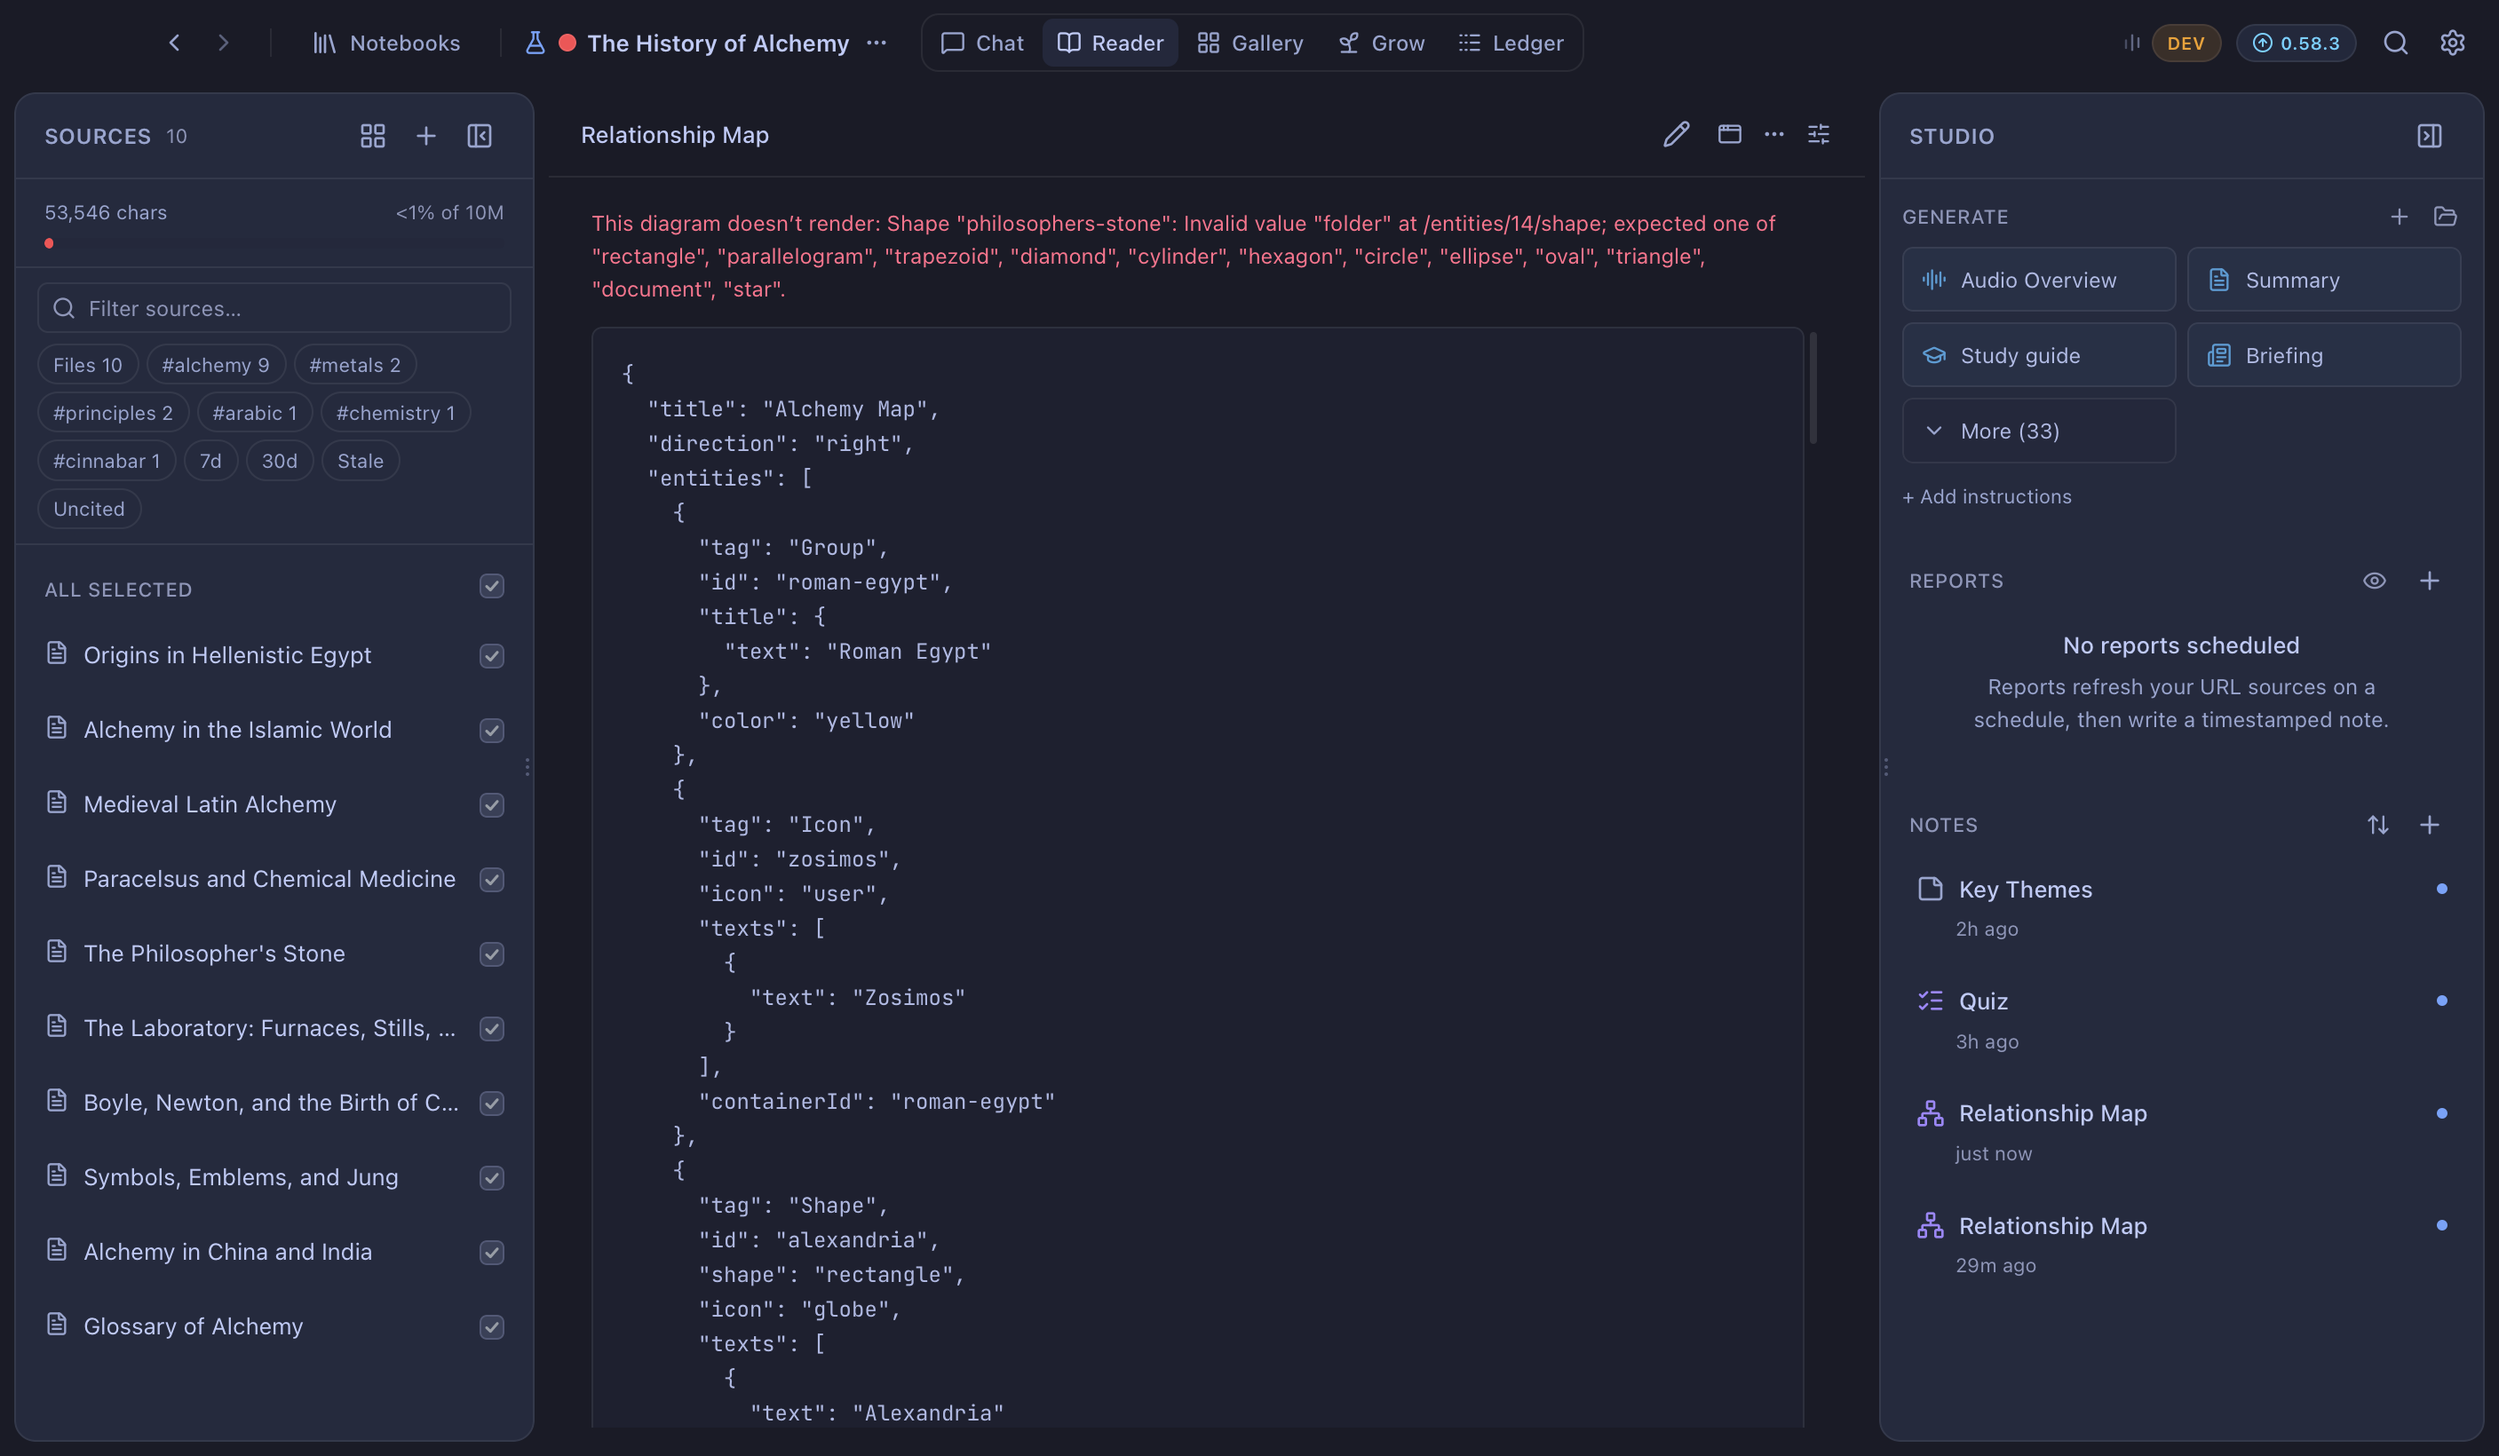
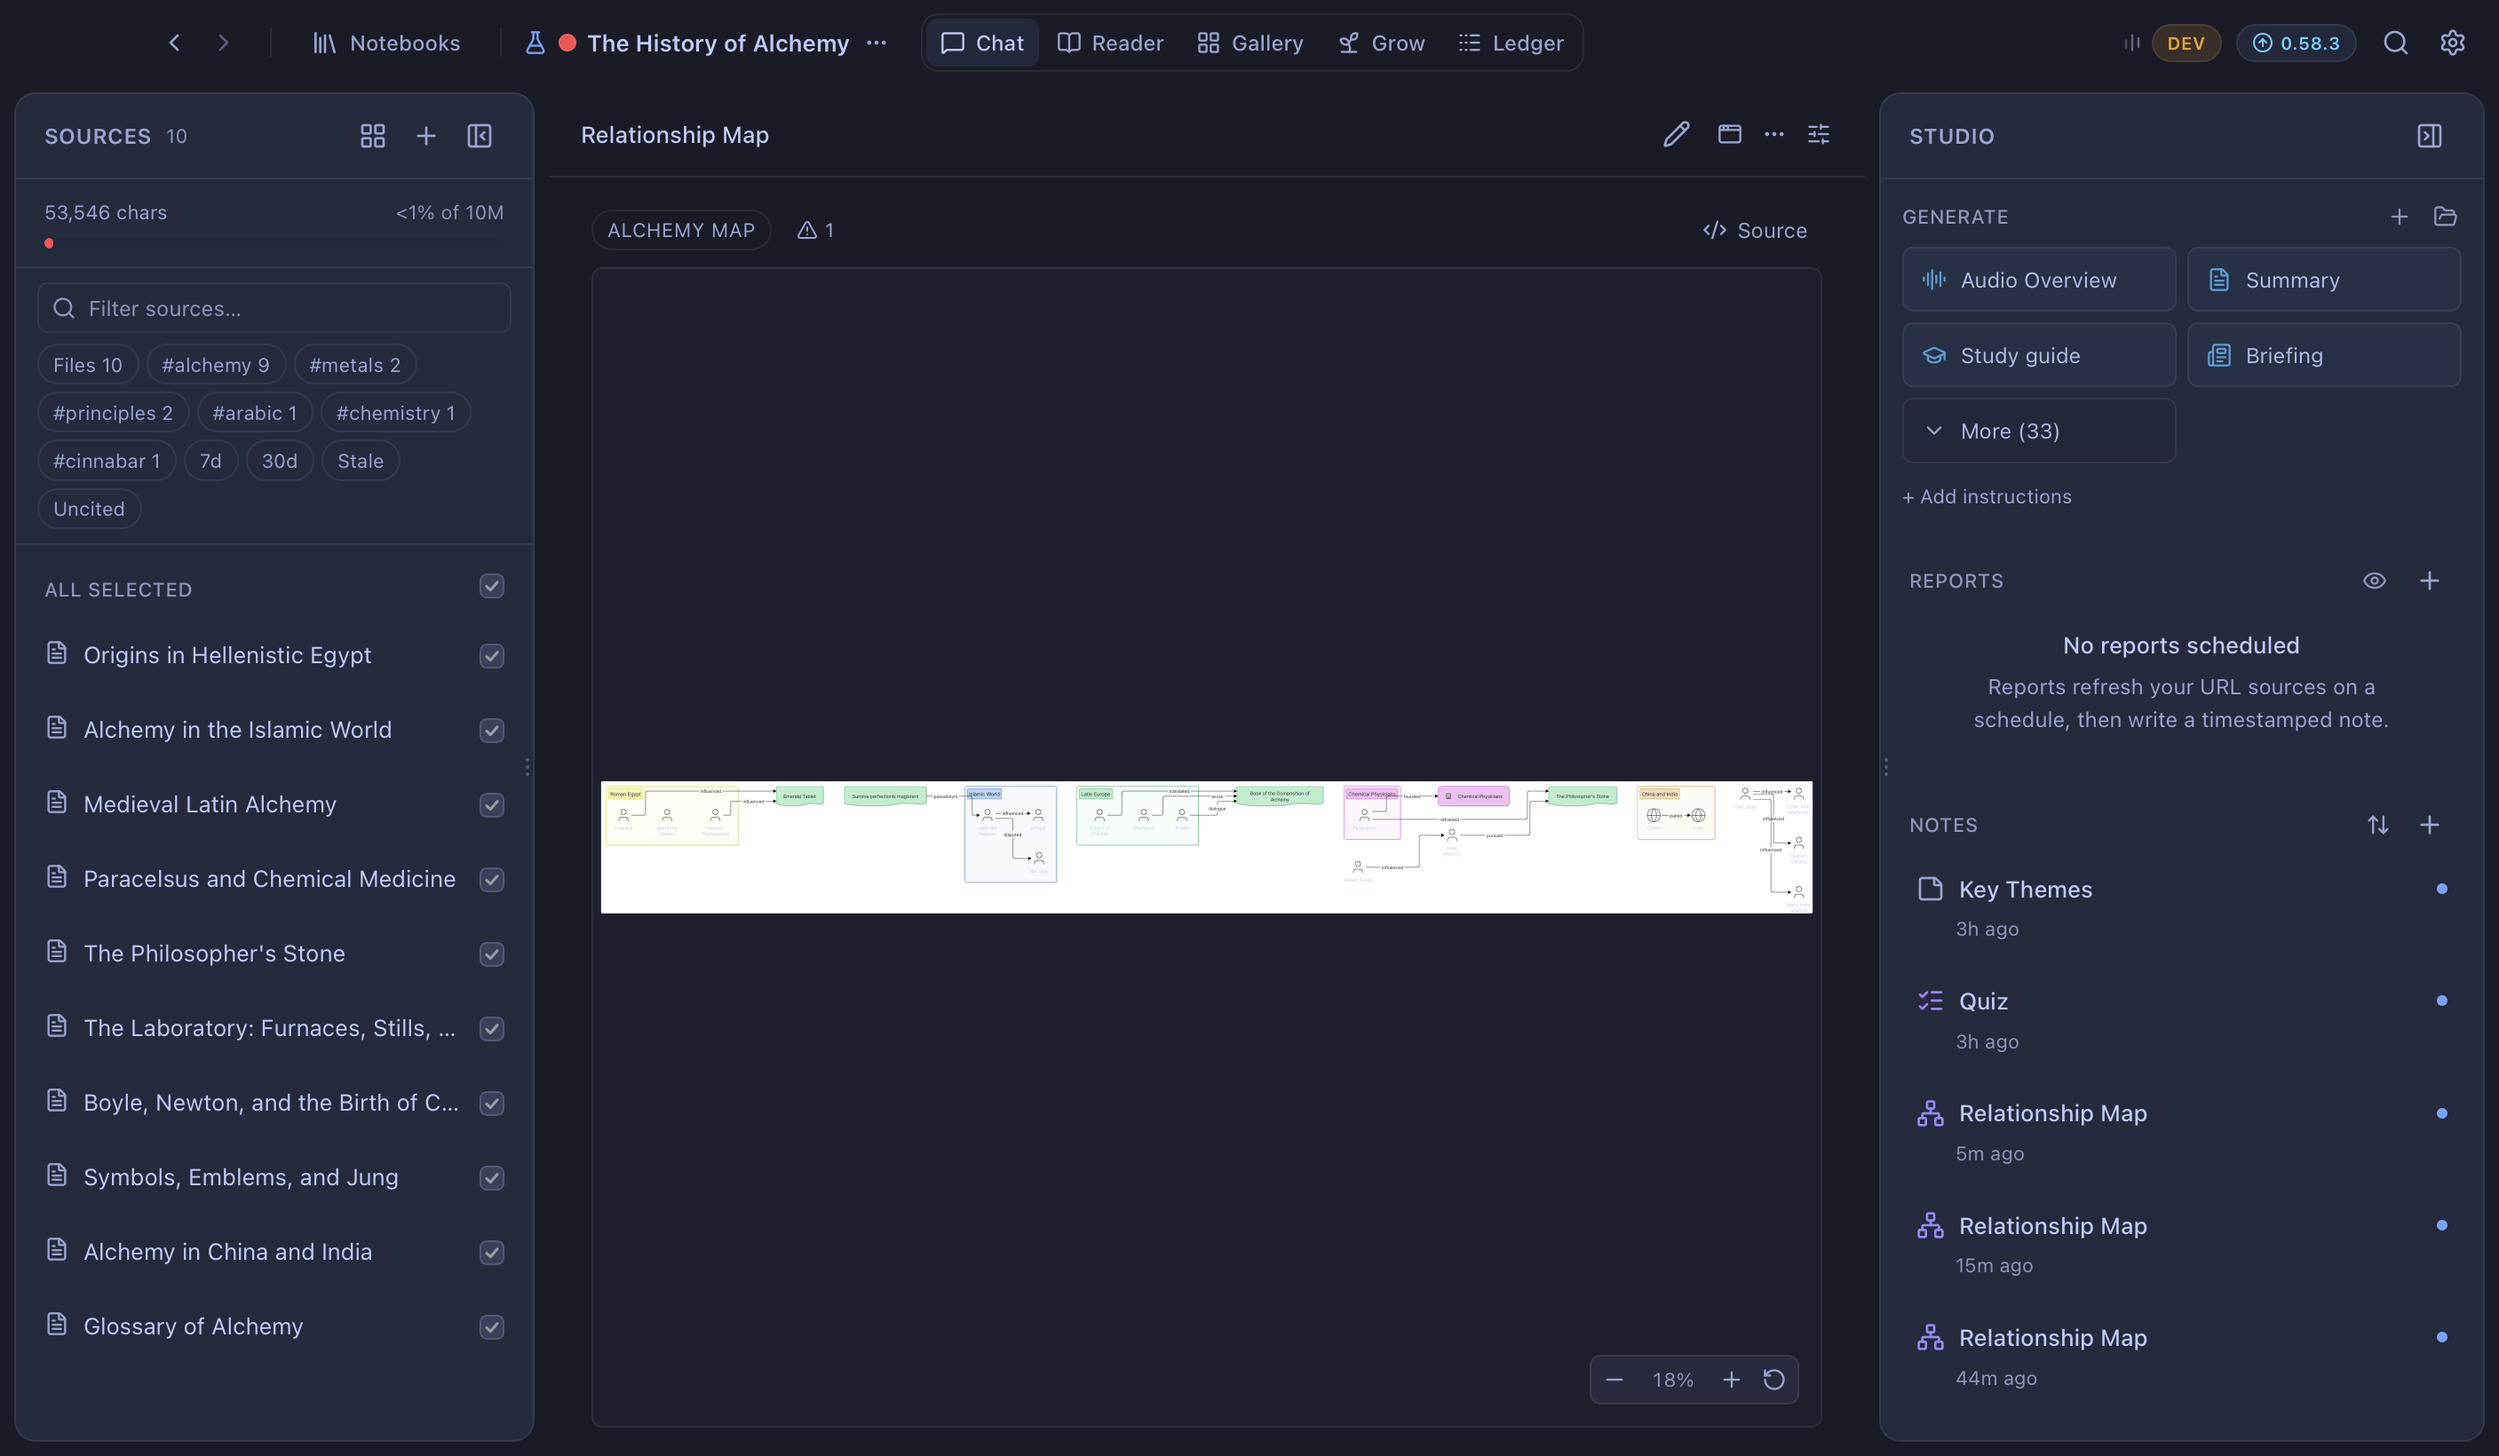
Run a relationship map's islands along the flow, and let fit zoom past a quarter
The second in-app map was six eras the sources never connect; the
layered layout started every island at rank 0, so direction right still
gave one tall first column. A relationship map now chains its islands
along the flow — each starting at the rank after the last ends — and
reads as a timeline. The canvas's zoom floor of a quarter cut that strip
off at four pane widths, so fit means fit down to a tenth.

diff --git a/src/lib/diagramLayout.ts b/src/lib/diagramLayout.ts
@@ -78,6 +78,12 @@ export interface LayoutOptions {
    *  widest rank (the default), or flush with its start — columns of a
    *  journey map share a top edge. */
   align?: "center" | "start";
+  /** Where a level's disconnected islands go: side by side across the
+   *  main axis, all starting at rank 0 (the default — unrelated tiers of
+   *  an architecture sit beside each other), or chained along it, each
+   *  island starting at the rank after the last one ends — a relationship
+   *  map's eras read left to right instead of stacking into a column. */
+  islands?: "across" | "along";
 }
 
 export interface Placement {
@@ -161,6 +167,36 @@ function rank(ids: string[], edges: Edge[]): Map<string, number> {
     }
   }
   return ranks;
+}
+
+/**
+ * Shift each connected island's ranks so the islands follow one another
+ * along the main axis, in the order their first member appears.
+ */
+function chainIslands(ids: string[], ranks: Map<string, number>, edges: Edge[]): void {
+  const parent = new Map<string, string>(ids.map((id) => [id, id]));
+  const find = (id: string): string => {
+    let root = id;
+    while (parent.get(root) !== root) root = parent.get(root) as string;
+    return root;
+  };
+  for (const [from, to] of edges) {
+    if (!parent.has(from) || !parent.has(to)) continue;
+    const a = find(from);
+    const b = find(to);
+    if (a !== b) parent.set(b, a);
+  }
+  const offset = new Map<string, number>();
+  let next = 0;
+  for (const id of ids) {
+    const root = find(id);
+    if (!offset.has(root)) {
+      offset.set(root, next);
+      const depth = Math.max(0, ...ids.filter((m) => find(m) === root).map((m) => ranks.get(m) ?? 0));
+      next += depth + 1;
+    }
+  }
+  for (const id of ids) ranks.set(id, (ranks.get(id) ?? 0) + (offset.get(find(id)) ?? 0));
 }
 
 /** Ranks → ordered layers, each sorted by the mean position of its predecessors. */
@@ -361,6 +397,7 @@ export function placeNodes(
       : sequence
         ? new Map(ids.map((id, i) => [id, i]))
         : rank(ids, lifted);
+    if (!shared && !sequence && options.islands === "along") chainIslands(ids, ranks, lifted);
     const ordered = layers(ids, ranks, lifted);
     const rel = new Map<string, Box>();
     // Along the main axis each rank is one band; across it, the rank's

diff --git a/src/lib/diagramLayout.test.ts b/src/lib/diagramLayout.test.ts
@@ -268,6 +268,50 @@ describe("placeNodes for the diagram kinds", () => {
     expect(placed.width).toBeGreaterThan(placed.height);
   });
 
+  it("chains a level's islands along the flow when asked", () => {
+    // Three eras the sources never connect to each other, plus one loose
+    // person: stacked into one column by default, laid left to right for
+    // a relationship map.
+    const nodes = [
+      group("egypt"),
+      leaf("zosimos", "egypt"),
+      leaf("tablet"),
+      group("islam"),
+      leaf("jabir", "islam"),
+      leaf("razi", "islam"),
+      group("europe"),
+      leaf("bacon", "europe"),
+      leaf("jung"),
+    ];
+    const edges = [
+      { from: "zosimos", to: "tablet" },
+      { from: "jabir", to: "razi" },
+    ];
+    const stacked = placeNodes(nodes, edges, { direction: "right", align: "start" });
+    const chained = placeNodes(nodes, edges, {
+      direction: "right",
+      align: "start",
+      islands: "along",
+    });
+    const at = (p: typeof stacked, id: string) => p.boxes.get(id) as Box;
+    // By default every island starts at rank 0: one tall column.
+    expect(at(stacked, "egypt").x).toBe(at(stacked, "islam").x);
+    expect(at(stacked, "islam").x).toBe(at(stacked, "europe").x);
+    expect(stacked.height).toBeGreaterThan(stacked.width);
+    // Chained: egypt, its tablet, then islam, then europe, then jung, each
+    // to the right of the last, on one row.
+    const order = ["egypt", "tablet", "islam", "europe", "jung"].map((id) => at(chained, id));
+    for (let i = 1; i < order.length; i += 1) {
+      expect(order[i - 1].x + order[i - 1].width).toBeLessThanOrEqual(order[i].x);
+      expect(order[i].y).toBe(order[0].y);
+    }
+    // Inside an era nothing changes: jabir still precedes razi.
+    expect(at(chained, "jabir").x).toBeLessThan(at(chained, "razi").x);
+    expect(chained.width).toBeGreaterThan(chained.height);
+    // Members of an island keep their order relative to each other.
+    expect(at(chained, "zosimos").x).toBeLessThan(at(chained, "tablet").x);
+  });
+
   it("widens a rank gap that a labeled connection crosses", () => {
     const nodes = () => [leaf("a"), leaf("b"), leaf("c")];
     const chain = (labeled: boolean) => [

diff --git a/src/components/MindMap.tsx b/src/components/MindMap.tsx
@@ -208,6 +208,10 @@ export function MindMap({ content }: { content: string }) {
   );
 }
 
+/** How far the canvas zooms out. Fit means fit: a six-era relationship
+ *  strip runs four pane widths, and a floor of a quarter cut its last era off. */
+const MIN_SCALE = 0.1;
+
 /** Infinite-canvas panning and zooming (Photoshop-style): drag with a grab
  *  cursor or two-finger scroll to move; pinch (ctrl+wheel on macOS) or the
  *  corner buttons to zoom around the cursor. Shared with the UML and eraser
@@ -229,7 +233,7 @@ export function PanCanvas({
   const fitted = () => {
     const r = viewportRef.current?.getBoundingClientRect();
     if (!fit || !r || !fit.width || !fit.height) return { x: 0, y: 0, scale: 1 };
-    const scale = Math.max(0.25, Math.min(1, r.width / fit.width, r.height / fit.height));
+    const scale = Math.max(MIN_SCALE, Math.min(1, r.width / fit.width, r.height / fit.height));
     return {
       scale,
       x: Math.max(0, (r.width - fit.width * scale) / 2),
@@ -247,7 +251,7 @@ export function PanCanvas({
   /** Zoom by a factor keeping the given viewport point fixed. */
   const zoomAt = (factor: number, cx: number, cy: number) => {
     setView((v) => {
-      const scale = Math.min(3, Math.max(0.25, v.scale * factor));
+      const scale = Math.min(3, Math.max(MIN_SCALE, v.scale * factor));
       const k = scale / v.scale;
       return { scale, x: cx - (cx - v.x) * k, y: cy - (cy - v.y) * k };
     });
@@ -265,7 +269,7 @@ export function PanCanvas({
         const rect = el.getBoundingClientRect();
         setView((v) => {
           const factor = Math.exp(-e.deltaY * 0.01);
-          const scale = Math.min(3, Math.max(0.25, v.scale * factor));
+          const scale = Math.min(3, Math.max(MIN_SCALE, v.scale * factor));
           const k = scale / v.scale;
           const cx = e.clientX - rect.left;
           const cy = e.clientY - rect.top;

diff --git a/src/lib/eraserDiagram.ts b/src/lib/eraserDiagram.ts
@@ -178,8 +178,11 @@ function placed(doc: DiagramDoc, kind: DiagramKind, sizeOf: (entity: DiagramEnti
     direction: doc.direction,
     // Journey stages share a top edge, and a relationship map's ranks
     // share one so a chain of people reads as a row across its era;
-    // everything else centers on its widest rank.
+    // everything else centers on its widest rank. A relationship map's
+    // islands — eras the sources never connect — follow one another along
+    // the flow rather than stacking into one tall first column.
     ...(kind === "journey" || kind === "relationship" ? { align: "start" as const } : {}),
+    ...(kind === "relationship" ? { islands: "along" as const } : {}),
   });
 }
 

diff --git a/docs/RFC-diagrams.md b/docs/RFC-diagrams.md
@@ -278,6 +278,17 @@ a Textbox with a warning; and the layout aligns the kind's ranks flush
 (`align: "start"`, as the journey map does) so a chain reads as a row
 across its era instead of floating mid-column.
 
+The second document exposed the other half of the tall column. A
+relationship corpus is islands — eras the sources never connect to one
+another — and the layered layout starts every island at rank 0, so with
+`direction: "right"` six islands became one first column 1,400px tall
+and three ranks wide. The layout now takes `islands: "along"`
+(relationship only): each connected island starts at the rank after the
+last one ends, in document order, so the eras follow one another along
+the flow. The same 28-entity map is 3,871×423 now, and reads as a
+timeline (`docs/images/in-app-relationship.png`). Architecture keeps the
+default — unrelated tiers belong beside each other.
+
 ## Risks
 
 - **Bundle.** Three packages plus vendored assets: the lazy diagram chunk
@@ -305,5 +316,8 @@ across its era instead of floating mid-column.
 ## Not in this RFC
 
 The fetch-and-cache icon fallback, a dark palette, `Legend` and `Badge`,
-personas as rows on a journey map (one persona per map for now), and
-letting a user edit the document in place with a re-render.
+personas as rows on a journey map (one persona per map for now), letting
+a user edit the document in place with a re-render, and wrapping a
+relationship map's chained islands into rows once the row runs past a
+few screen widths (a six-island map is one long strip today; it pans,
+but a 3:1 sheet would read better and print better).
